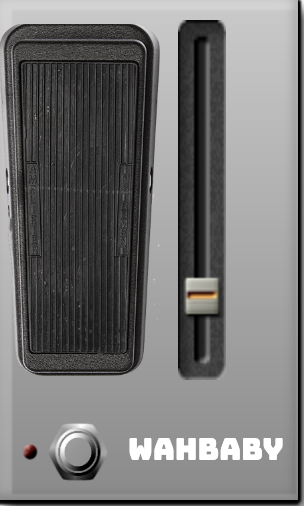
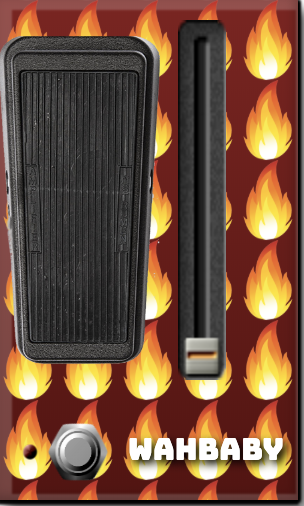
changing style

diff --git a/jordan-SINTES/WahBabyMichel/main.html b/jordan-SINTES/WahBabyMichel/main.html
@@ -14,7 +14,7 @@
             font: "Bungee";
             display: block;
             box-shadow: 4px 5px 6px rgba(0, 0, 0, 0.7), inset -2px -2px 5px 0px rgba(0, 0, 0, 0.2), inset 3px 1px 1px 4px rgba(255, 255, 255, 0.2), 1px 0px 1px 0px rgba(0, 0, 0, 0.9), 0 2px 1px 0 rgba(0, 0, 0, 0.9), 1px 1px 1px 0px rgba(0, 0, 0, 0.9);
-            background: linear-gradient(rgb(202, 202, 202), rgb(138, 138, 138));
+            background: linear-gradient(rgb(131, 29, 29), rgb(88, 14, 14));
             position: relative;
             width: 150px;
             height: 250px;
@@ -23,6 +23,18 @@
             z-index: 9;
             /* bring your own prefixes */
         }
+
+        #main {
+			/* this relative uri is fixed by a call to setBackgroundImage in 
+            constructor. It should be turned into an absolute one */
+			background-image: url("assets/img/flame.png");
+
+			/* this is equal to the size of the plugin, and should be equal to the
+               size of the background image if you want to see it entirely */
+			background-size: 30px 40px;
+			width: 100%;
+			height: 100%;
+		}
 
 
 
@@ -35,18 +47,6 @@
             text-align: center;
         }
 
-        #main {
-            /* this relative uri is fixed by a call to setBackgroundImage in 
-            constructor. It should be turned into an absolute one */
-            /*background-image: url("img/BigMuffBackground.png");*/
-
-            /* this is equal to the size of the plugin, and should be equal to the
-               size of the background image if you want to see it entirely */
-            background-size: 80px 200px;
-            width: 100%;
-            height: 100%;
-            padding-top: 10px;
-        }
 
         .pedalLabel {
             position: absolute;
@@ -58,6 +58,7 @@
             line-height: 30px;
             /*{pedalfontsize}*/
             color: rgb(255, 255, 255);
+            text-shadow: 2px 2px 4px black;
             /*{fontcolor}*/
         }
 
@@ -102,7 +103,7 @@
             height: 10px;
         }
     </style>
-    <div class="main">
+    <div id="main">
         <img angle="40" id="imgWah" height=200 src="assets/img/crybaby.png">
 
         <div class="slider" id="wahSlider">
@@ -141,6 +142,7 @@
             this.setSwitchListener();
             this.setActive(false);
             this.fixRelativeImagePathsInCSS();
+            this.setImageBackground("assets/img/flame.png");
 
         }
 
@@ -164,6 +166,15 @@
                 }
             });
         }
+
+        setImageBackground(imageRelativeURI) {
+			// check if the shadowroot host has a background image
+			let mainDiv = this._root.querySelector("#main");
+			mainDiv.style.backgroundImage = "url(" + this.basePath + "/" + imageRelativeURI + ")";
+
+			//console.log("background =" + mainDiv.style.backgroundImage);
+			//this._root.style.backgroundImage = "toto.png";
+		}
 
         attributeChangedCallback() {
 
